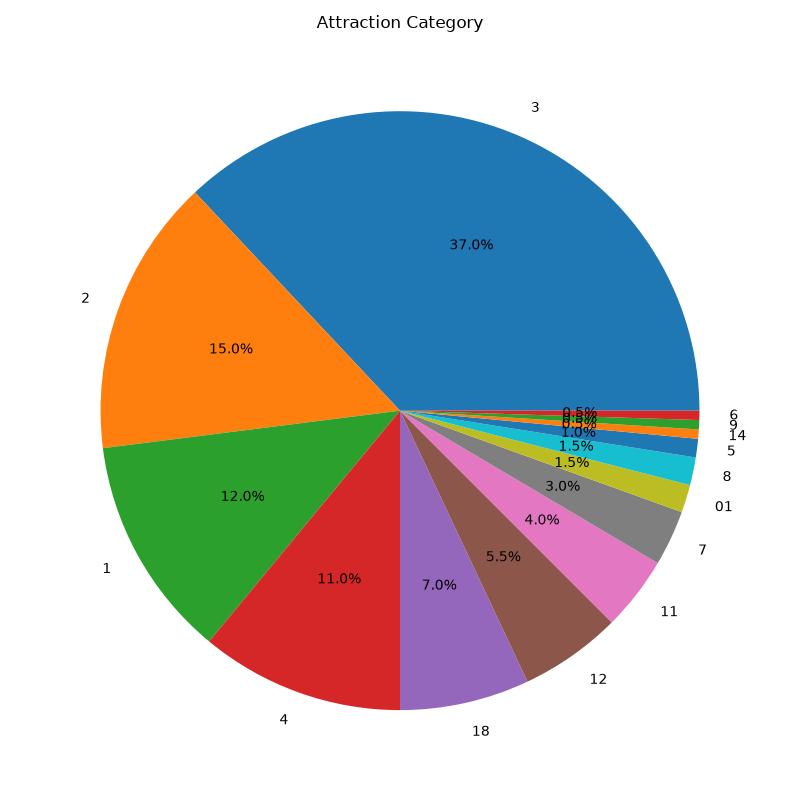
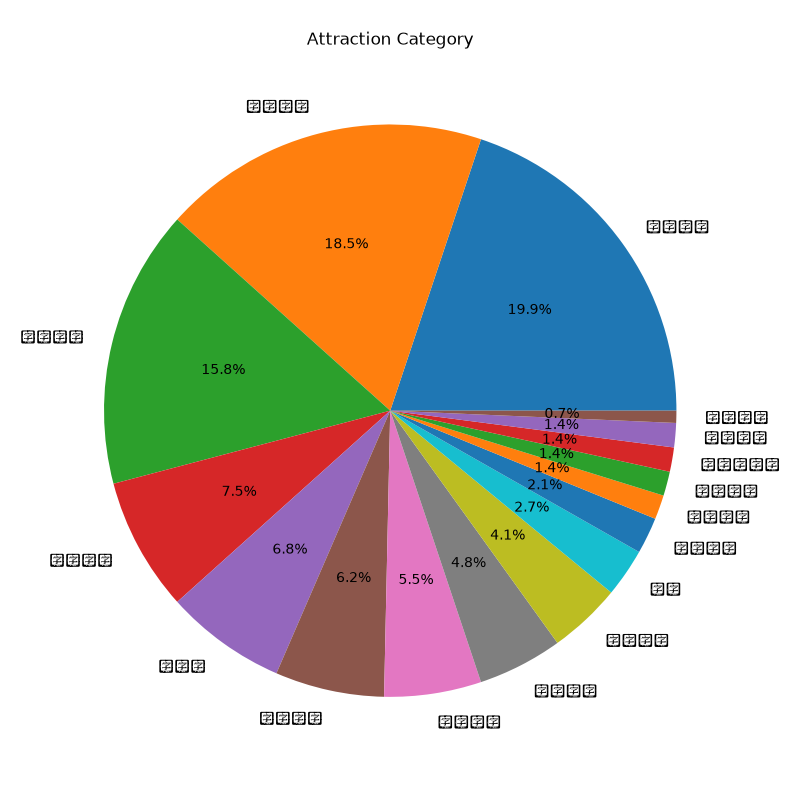
update analysis charts with chartjs

diff --git a/templates/analysis.html b/templates/analysis.html
@@ -7,17 +7,13 @@
 <div class="row">
 
     <div class="col-md-6">
-
         <div class="card shadow-sm mb-4">
-
             <div class="card-header bg-primary text-white">
                 各縣市景點數量
             </div>
 
             <div class="card-body">
-
                 <table class="table table-bordered table-hover">
-
                     <thead class="table-primary">
                         <tr>
                             <th>縣市</th>
@@ -33,27 +29,19 @@
                         </tr>
                         {% endfor %}
                     </tbody>
-
                 </table>
-
             </div>
-
         </div>
-
     </div>
 
     <div class="col-md-6">
-
         <div class="card shadow-sm mb-4">
-
             <div class="card-header bg-success text-white">
                 景點類型數量
             </div>
 
             <div class="card-body">
-
                 <table class="table table-bordered table-hover">
-
                     <thead class="table-success">
                         <tr>
                             <th>類型</th>
@@ -69,29 +57,84 @@
                         </tr>
                         {% endfor %}
                     </tbody>
-
                 </table>
-
             </div>
-
         </div>
-
     </div>
 
 </div>
+
 <hr>
 
-<h2>各縣市景點數量長條圖</h2>
+<div class="card shadow-sm mb-4">
+    <div class="card-header bg-primary text-white">
+        各縣市景點數量長條圖
+    </div>
 
-<img
-src="{{ url_for('static', filename='city_chart.png') }}"
-class="img-fluid">
+    <div class="card-body">
+        <canvas id="cityChart"></canvas>
+    </div>
+</div>
 
-<br><br>
+<div class="card shadow-sm mb-4">
+    <div class="card-header bg-success text-white">
+        景點類型圓餅圖
+    </div>
 
-<h2>景點類型圓餅圖</h2>
+    <div class="card-body">
+        <canvas id="categoryChart"></canvas>
+    </div>
+</div>
 
-<img
-src="{{ url_for('static', filename='category_chart.png') }}"
-class="img-fluid">
+<script src="https://cdn.jsdelivr.net/npm/chart.js"></script>
+
+<script>
+    const cityData = {{ city_data | tojson }};
+    const categoryData = {{ category_data | tojson }};
+
+    const cityLabels = cityData.map(item => item[0]);
+    const cityCounts = cityData.map(item => item[1]);
+
+    const categoryLabels = categoryData.map(item => item[0]);
+    const categoryCounts = categoryData.map(item => item[1]);
+
+    new Chart(document.getElementById("cityChart"), {
+        type: "bar",
+        data: {
+            labels: cityLabels,
+            datasets: [{
+                label: "景點數量",
+                data: cityCounts
+            }]
+        },
+        options: {
+            responsive: true,
+            plugins: {
+                legend: {
+                    display: false
+                }
+            },
+            scales: {
+                y: {
+                    beginAtZero: true
+                }
+            }
+        }
+    });
+
+    new Chart(document.getElementById("categoryChart"), {
+        type: "pie",
+        data: {
+            labels: categoryLabels,
+            datasets: [{
+                label: "景點類型",
+                data: categoryCounts
+            }]
+        },
+        options: {
+            responsive: true
+        }
+    });
+</script>
+
 {% endblock %}

diff --git a/scraper.py b/scraper.py
@@ -5,9 +5,43 @@ from dotenv import load_dotenv
 from playwright.sync_api import sync_playwright
 
 load_dotenv()
-DATABASE_URL = os.getenv("DATABASE_URL")
 
+DATABASE_URL = os.getenv("DATABASE_URL")
 DATA_URL = "https://media.taiwan.net.tw/XMLReleaseALL_public/scenic_spot_C_f.json"
+
+CITY_LIMITS = {
+    "桃園市": 14,
+    "新北市": 18,
+    "臺北市": 12,
+    "臺中市": 16,
+    "臺南市": 15,
+    "高雄市": 17,
+    "宜蘭縣": 10,
+    "花蓮縣": 13,
+    "臺東縣": 11,
+    "金門縣": 20
+}
+
+CATEGORY_MAP = {
+    "1": "自然景觀",
+    "2": "人文歷史",
+    "3": "古蹟文化",
+    "4": "宗教景點",
+    "5": "休閒娛樂",
+    "6": "觀光工廠",
+    "7": "生態教育",
+    "8": "藝術文化",
+    "9": "地方特色",
+    "10": "國家風景區",
+    "11": "博物館",
+    "12": "老街商圈",
+    "13": "溫泉",
+    "14": "遊憩園區",
+    "15": "親子景點",
+    "16": "美食購物",
+    "17": "戶外步道",
+    "18": "其他景點"
+}
 
 
 def get_connection():
@@ -38,8 +72,48 @@ def insert_attraction(name, city, address, description, category, website):
     conn.close()
 
 
-def scrape_attractions(limit=200):
+def safe_text(value):
+    if value is None:
+        return ""
+    return str(value).strip()
+
+
+def normalize_city(region, address):
+    text = f"{region} {address}"
+
+    city_alias = {
+        "桃園": "桃園市",
+        "新北": "新北市",
+        "台北": "臺北市",
+        "臺北": "臺北市",
+        "台中": "臺中市",
+        "臺中": "臺中市",
+        "台南": "臺南市",
+        "臺南": "臺南市",
+        "高雄": "高雄市",
+        "宜蘭": "宜蘭縣",
+        "花蓮": "花蓮縣",
+        "台東": "臺東縣",
+        "臺東": "臺東縣",
+        "金門": "金門縣"
+    }
+
+    for key, value in city_alias.items():
+        if key in text:
+            return value
+
+    return safe_text(region)
+
+
+def get_category(code):
+    code = safe_text(code).lstrip("0")
+    return CATEGORY_MAP.get(code, "其他景點")
+
+
+def scrape_attractions():
     clear_table()
+
+    city_counts = {city: 0 for city in CITY_LIMITS.keys()}
 
     with sync_playwright() as p:
         browser = p.chromium.launch(headless=True)
@@ -56,27 +130,27 @@ def scrape_attractions(limit=200):
         data = json.loads(raw_text)
         attractions = data["XML_Head"]["Infos"]["Info"]
 
-        count = 0
+        total_count = 0
 
         for item in attractions:
-            if count >= limit:
-                break
+            name = safe_text(item.get("Name"))
+            region = safe_text(item.get("Region"))
+            address = safe_text(item.get("Add"))
+            description = safe_text(item.get("Description"))
+            website = safe_text(item.get("Website"))
 
-            name = item.get("Name", "").strip()
-            city = item.get("Region", "").strip()
-            address = item.get("Add", "").strip()
-            description = item.get("Description", "").strip()
-            category = item.get("Class1", "").strip()
-            website = item.get("Website", "").strip()
+            city = normalize_city(region, address)
 
             if not name:
                 continue
 
-            if not city:
-                city = "未分類"
+            if city not in CITY_LIMITS:
+                continue
 
-            if not category:
-                category = "一般景點"
+            if city_counts[city] >= CITY_LIMITS[city]:
+                continue
+
+            category = get_category(item.get("Class1"))
 
             insert_attraction(
                 name=name,
@@ -87,12 +161,21 @@ def scrape_attractions(limit=200):
                 website=website
             )
 
-            count += 1
-            print(f"已新增第 {count} 筆：{name} / {city}")
+            city_counts[city] += 1
+            total_count += 1
+
+            print(f"已新增第 {total_count} 筆：{name} / {city} / {category}")
+
+            if all(city_counts[city] >= CITY_LIMITS[city] for city in CITY_LIMITS):
+                break
 
         browser.close()
 
     print("景點資料匯入完成！")
+    print("各縣市匯入數量：")
+
+    for city, count in city_counts.items():
+        print(f"{city}：{count} 筆")
 
 
 if __name__ == "__main__":

diff --git a/analysis.py b/analysis.py
@@ -3,6 +3,13 @@ import psycopg2
 import pandas as pd
 import matplotlib.pyplot as plt
 from dotenv import load_dotenv
+import matplotlib
+matplotlib.use("Agg")
+
+import matplotlib.pyplot as plt
+
+plt.rcParams["font.sans-serif"] = ["Microsoft JhengHei"]
+plt.rcParams["axes.unicode_minus"] = False
 
 load_dotenv()
 